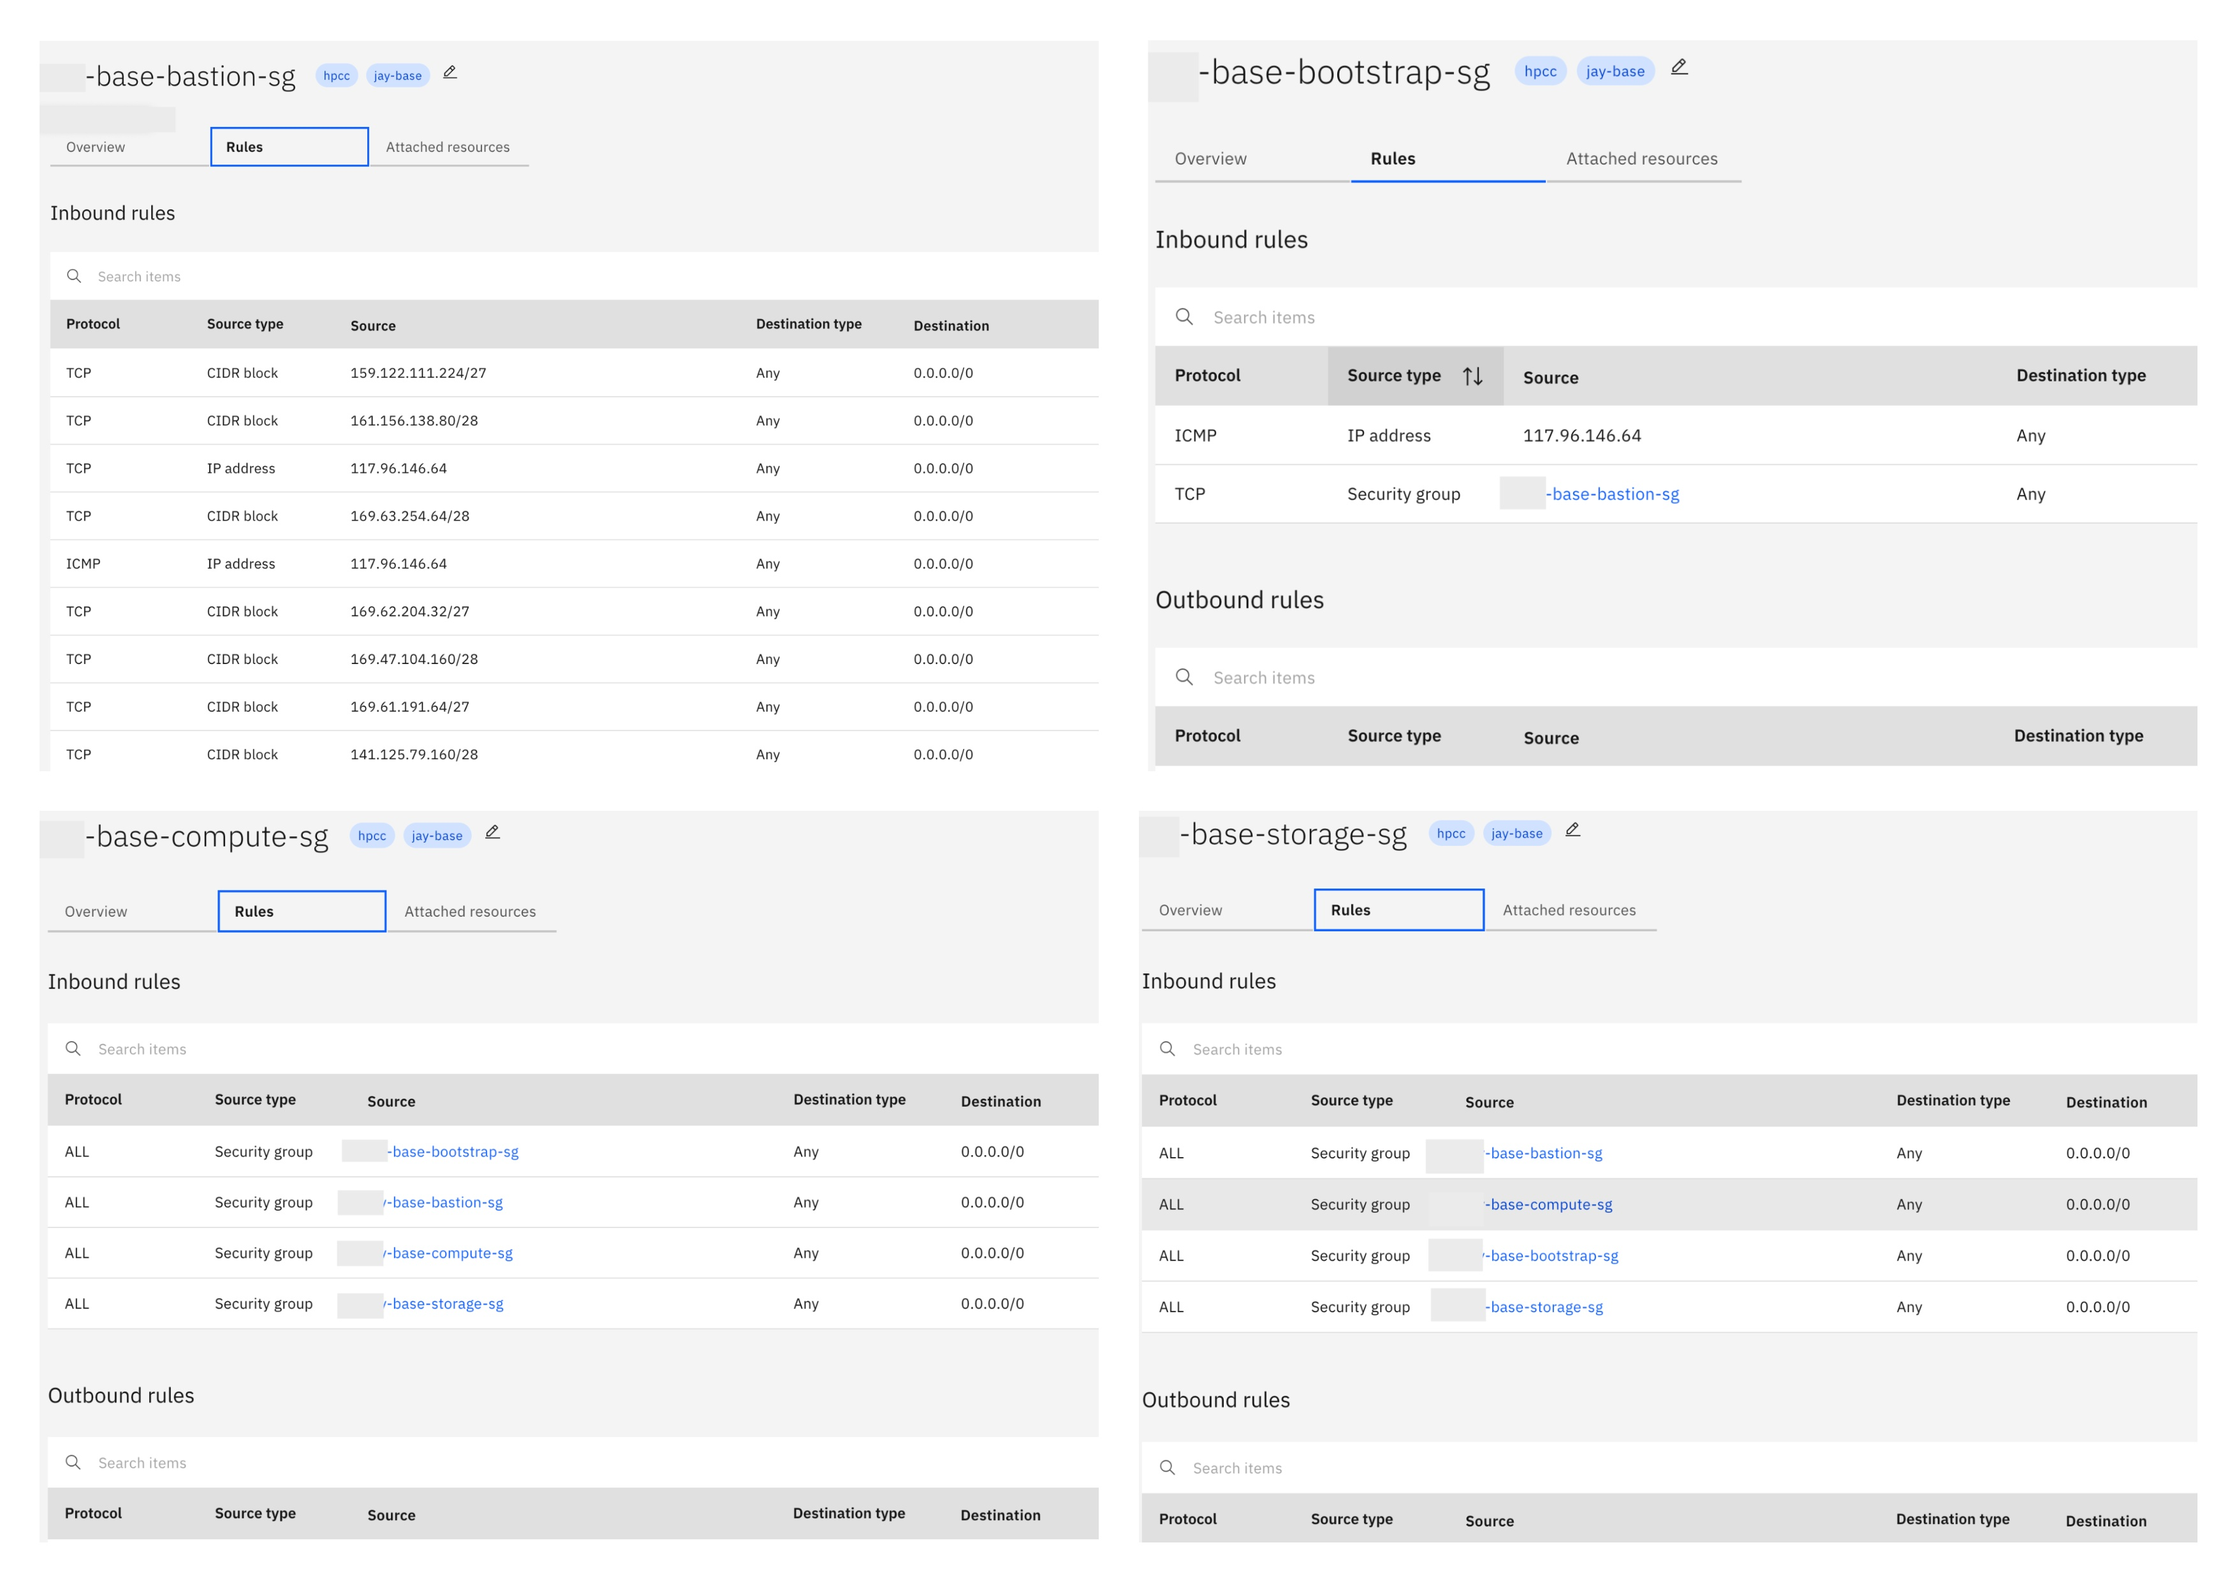
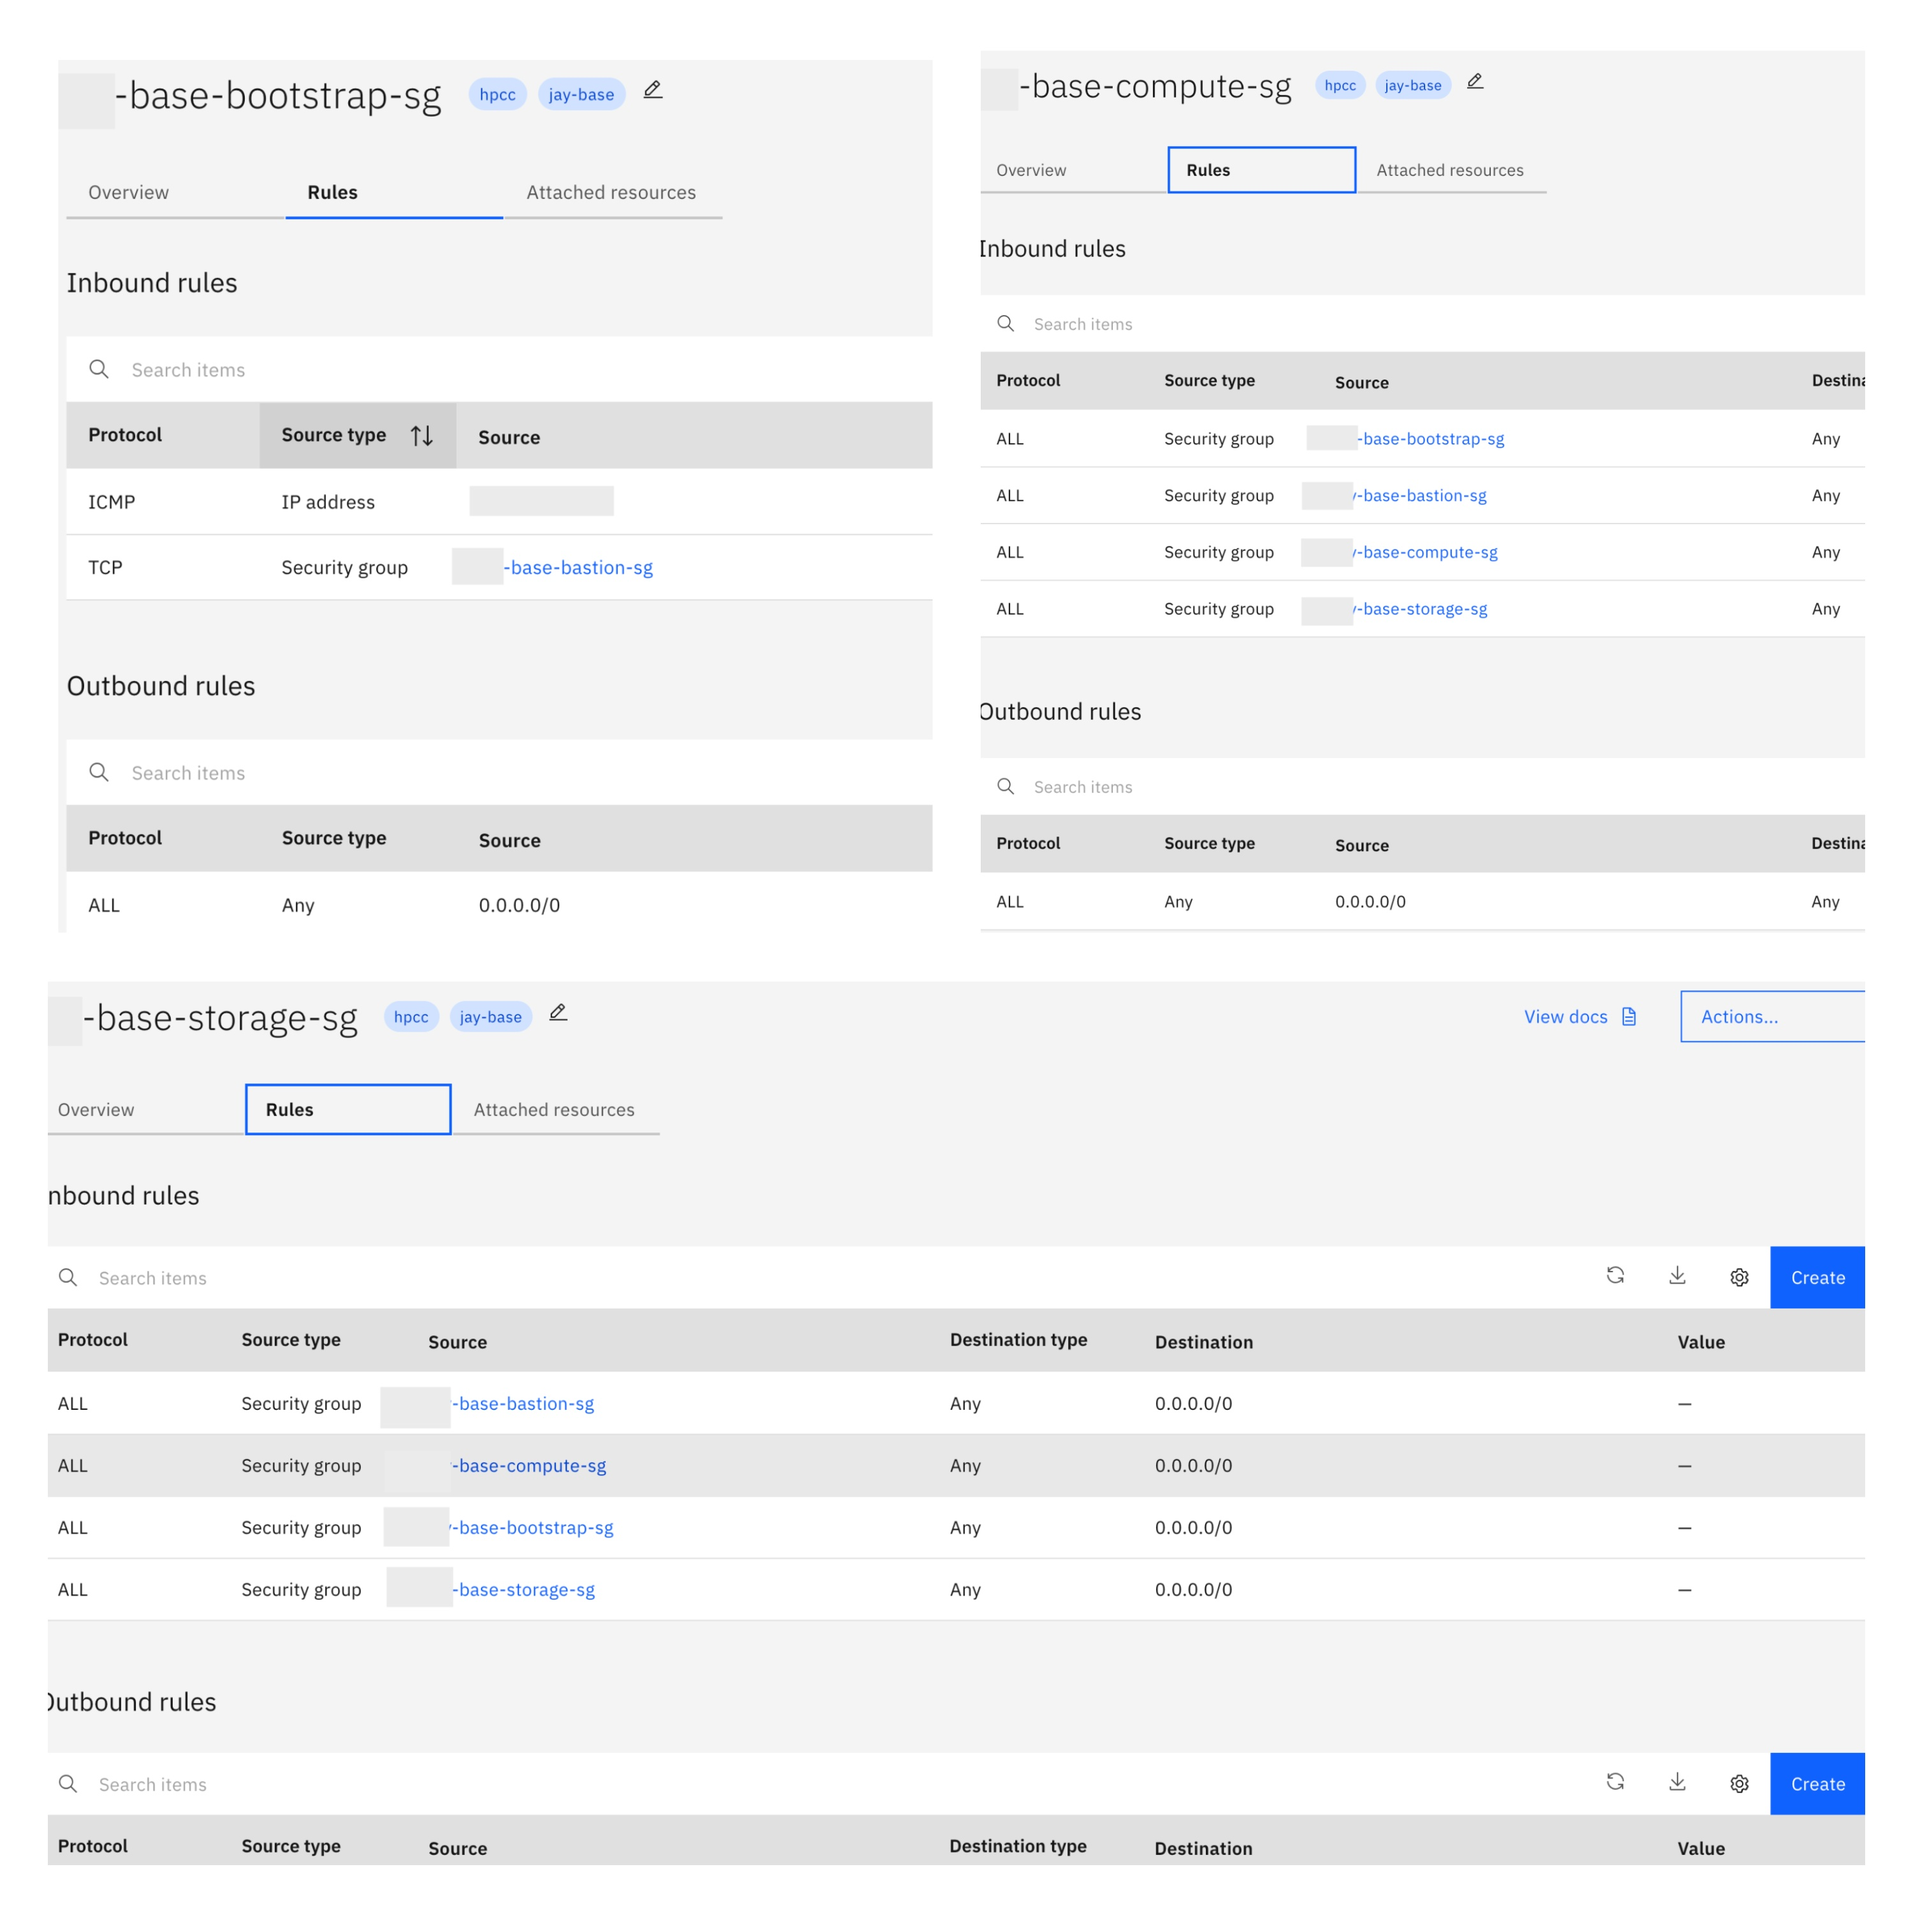
Update: 17-03-2025

diff --git a/security-groups.md b/security-groups.md
@@ -63,12 +63,9 @@ This validation is applicable on all security groups.
 ```
 {: pre}
 
-![Security groups and its rules](images/four-security-groups.png){: caption="Security Groups" caption-side="bottom"}
+![Security groups and its rules](images/four-security-groups.png){: caption="Security groups and its rules" caption-side="bottom"}
 
-The bastion security group does not contain all the rules in the above screenshot.
-{: note}
-
-In the bootstrap security group, the public IP address provided is assigned to the devices that are authorized to establish the SSH.
+In the bootstrap security group, the ICMP rule should allow traffic from the public IP address assigned to the devices. To fetch the IP address of the device, use https://ipv4.icanhazip.com/.
 {: note}
 
 **Scenario 2**
